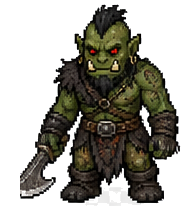
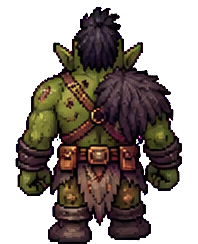
Walk cycle: orc_10 and tauren_6, from the first four-way sheet
Each character's left side is drawn rather than mirrored; the tauren's drawn left had a
front-facing standing frame, so his right is mirrored instead (folder:mirror).

Claude-Session: https://claude.ai/code/session_015TQrViPbuGDeiupTWSG9TT

diff --git a/tools/slice_walk_sheet.py b/tools/slice_walk_sheet.py
@@ -10,10 +10,11 @@ A 6x6 sheet holds four 3x3 blocks (tl, tr, bl, br); a 3x3 sheet holds one (one).
 row 1 walking down, row 2 walking up, row 3 walking right; column 1 left foot forward, column 2
 standing, column 3 right foot forward. Left is the right side mirrored.
 
-A FOUR-WAY 6x6 sheet gives each of three characters two full rows (r1 = rows 1-2, r2 = rows 3-4,
+A FOUR-WAY sheet (6x6 for three characters, 6x4 landscape for two) gives each character two full rows (r1 = rows 1-2, r2 = rows 3-4,
 r3 = rows 5-6): first row down 1-3 then up 1-3, second row right 1-3 then left 1-3. Its left side
 is drawn, not mirrored, so whatever a character wears on one side stays there. Add --mirror-left
-to throw the drawn left away and mirror the right instead, if the model botched it.
+to throw the drawn left away and mirror the right instead, if the model botched it, or write
+folder:mirror (r2=tauren/tauren_6:mirror) to do that for one character only.
 
 Writes, into assets/npcs/<folder>/:
   walk_<down|up|right|left>_<1|2|3>.png   (left is right, mirrored)
@@ -51,9 +52,9 @@ def _cells(r0, c0, four_way):
 
 
 def _frames(rgba, grid, r0, c0, four_way=False):
-    """{(dir, n): (RGBA array cropped to the figure, its body centre x)}."""
+    """{(dir, n): (RGBA array cropped to the figure, its body centre x)}. `grid` is (cols, rows)."""
     H, W = rgba.shape[:2]
-    ch, cw = H / grid, W / grid
+    cw, ch = W / grid[0], H / grid[1]
     out = {}
     for d, j, r, c in _cells(r0, c0, four_way):
         y0, x0 = int(r * ch), int(c * cw)
@@ -102,13 +103,17 @@ def main(argv):
     mirror_left = "--mirror-left" in argv
     argv = [a for a in argv if a != "--mirror-left"]
     sheet, jobs = argv[0], dict(a.split("=", 1) for a in argv[1:])
-    grid = 3 if "one" in jobs else 6
     four_way = any(k.startswith("r") for k in jobs)
     rgba = key_magenta(np.asarray(Image.open(sheet).convert("RGB")).astype(np.float64))
+    # Square cells: a 6-wide sheet is 6 rows tall when square, 4 when it's 3:2 (two characters).
+    cols = 3 if "one" in jobs else 6
+    grid = (cols, int(round(cols * rgba.shape[0] / rgba.shape[1])))
     strips = []
     for block, folder in jobs.items():
         r0, c0 = BLOCKS[block]
-        imgs = slice_block(rgba, grid, r0, c0, four_way, mirror_left)
+        # folder:mirror throws away one character's drawn left side and mirrors its right instead
+        folder, _, opt = folder.partition(":")
+        imgs = slice_block(rgba, grid, r0, c0, four_way, mirror_left or opt == "mirror")
         if preview:
             strips.append(imgs)
             continue
